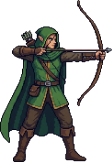
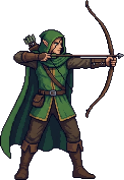
Bigger troll, cyclops, orc and archer; gargoyle lit up; fast enemy turns are back
- Re-cut from the originals at new heights: troll 80, cyclops 70, orc 56, archer 60 (x3 in files)
- cyclops_empty script scales with the picture height
- Gargoyle skips the night grade, is lightened and gets a soft pale outline so it reads on the road
- Enemies turn on road bends again, in 0.08 s (ENEMY_TURN_TIME in config.js)

Claude-Session: https://claude.ai/code/session_01QcHRMyAv8u5amDbjhevtz1

diff --git a/src/game.js b/src/game.js
@@ -7,7 +7,7 @@ const LIFT = 18; // высота полёта гаргулий
 // места на фоне (логические координаты): пламя факелов и ворота замка
 const TORCHES = [[20, 86], [390, 109], [438, 140]];
 const GATE = { x: 424, y: 97, w: 20, h: 20 };
-const TURN_TIME = 0.2; // плавный разворот: фигура сжимается по ширине и раскрывается уже в другую сторону
+const TURN_TIME = C.ENEMY_TURN_TIME; // быстрый разворот: фигура сжимается по ширине и раскрывается уже в другую сторону
 // обновляет показанную сторону o.shown и таймер разворота o.turnT по желаемой стороне want
 function turnTowards(o, want, dt) {
   if (o.shown === undefined) o.shown = want;
@@ -225,7 +225,7 @@ export class Game {
     e.d += e.def.speed * k * dt;
     e.anim += dt * k;
     const p = posAt(e.d);
-    if (p.dx && C.ENEMIES_TURN) e.dir = p.dx; // по умолчанию враг всегда лицом к замку
+    if (p.dx && C.ENEMIES_TURN) e.dir = p.dx; // разворот на поворотах (выключается в config.js)
     turnTowards(e, e.dir, dt);
     e.x = p.x; e.y = p.y;
     if (e.d >= PATH_LEN) {
@@ -687,6 +687,7 @@ export class Game {
     const sw = e.h * 0.55;
     ctx.fillStyle = 'rgba(0,0,0,0.28)';
     pxEllipse(ctx, e.x, e.y + 1, sw / 2, 2);
+    if (e.type === 'gargoyle') drawRigOutline(ctx, e.type, e.x, e.y + 2 - lift, o, rig.parts, '#b8d0ff', 0.32); // серый камень на серой дороге — светлый контур
     if (e.enraged) drawRigOutline(ctx, e.type, e.x, e.y + 2 - lift, o, rig.parts, '#ff3a2a', 0.55 + 0.3 * Math.sin(this.time * 9));
     const { w, h } = drawRig(ctx, e.type, e.x, e.y + 2 - lift, o, rig.parts);
     const top = e.y + 2 - lift - h + (o.dy || 0);

diff --git a/src/config.js b/src/config.js
@@ -76,8 +76,9 @@ export const ENEMIES = {
 };
 
 // Каждая волна: один тип врагов, идут колонной. gap — секунд между выходом врагов
-// враги всегда смотрят вправо, к замку, и не разворачиваются на петле дороги (true — разворачиваться по ходу движения)
-export const ENEMIES_TURN = false;
+// враги разворачиваются по ходу движения на поворотах дороги (false — всегда смотрят вправо, к замку)
+export const ENEMIES_TURN = true;
+export const ENEMY_TURN_TIME = 0.08; // за сколько секунд враг разворачивается (быстро, чтобы не мелькал боком)
 export const MIN_SPACING = 11; // враги в колонне держат дистанцию по дороге не меньше этой (не наползают друг на друга)
 export const WAVES = [
   { type: 'skeleton', count: 10, gap: 1.4 },

diff --git a/tools/cyclops_empty.py b/tools/cyclops_empty.py
@@ -7,13 +7,14 @@ from scipy import ndimage as nd
 A = __file__.rsplit('/tools/', 1)[0] + '/assets'
 im = np.asarray(Image.open(f'{A}/cyclops.png').convert('RGBA')).astype(np.float32)
 H, W = im.shape[:2]
+k = H / 180  # координаты ниже сняты с картинки высотой 180 px
 yy, xx = np.mgrid[0:H, 0:W]
 rgb = im[..., :3]; al = im[..., 3] > 128
 sat = rgb.max(-1) - rgb.min(-1)
 # валун — эллипс; внутри него камень всё, что не кожа (у кожи красный заметно больше синего)
-box = ((xx - 68.5) / 24.5) ** 2 + ((yy - 80) / 23.5) ** 2 <= 1
+box = ((xx - 68.5 * k) / (24.5 * k)) ** 2 + ((yy - 80 * k) / (23.5 * k)) ** 2 <= 1
 stone = al & box & (((rgb[..., 0] - rgb[..., 2]) < 32) | (rgb[..., 1] > 0.72 * rgb[..., 0]))
-ring = ((xx - 68.5) / 27) ** 2 + ((yy - 80) / 26) ** 2 <= 1
+ring = ((xx - 68.5 * k) / (27 * k)) ** 2 + ((yy - 80 * k) / (26 * k)) ** 2 <= 1
 stone |= al & ring & ~box & (rgb.sum(-1) < 240) & (xx > 0.6 * W)   # тёмный контур валуна
 # не трогаем кисти: насыщенная кожа рядом остаётся
 edge = 0.74 * W
@@ -25,7 +26,7 @@ shade = 1 - 0.35 * np.clip((xx - 0.5 * W) / (edge - 0.5 * W), 0, 1)
 out[inside, :3] = skin * shade[inside, None]
 out[inside, 3] = 255
 out[stone & (xx >= edge), 3] = 0
-out[(ring | ((yy > 60) & (yy < 104))) & (xx >= edge), 3] = 0   # всё справа от живота в пределах валуна (контур, обрывки дальней кисти) — пусто
+out[(ring | ((yy > 60 * k) & (yy < 104 * k))) & (xx >= edge), 3] = 0   # всё справа от живота в пределах валуна (контур, обрывки дальней кисти) — пусто
 # тёмный контур по краю живота
 rim = inside & (xx >= edge - 1.5)
 out[rim, :3] = np.array([60, 30, 18])

diff --git a/CLAUDE.md b/CLAUDE.md
@@ -56,8 +56,10 @@
 - Ворота замка закрыты (открытые владелец забраковал): враги бьются в створки, ворота вздрагивают, остаются трещины
   (`hitGate`, `drawGateHits` в `game.js`). У самых ворот враг быстро тает (`GATE_FADE`).
 - Анимации: у врагов при ходьбе качаются руки и оружие, у волка хвост и голова; при попадании враг вздрагивает;
-  враги всегда смотрят вправо, к замку, и не разворачиваются на петле дороги (просил владелец; `ENEMIES_TURN` в `config.js`,
-  при `true` — плавный разворот `turnTowards` со сжатием по ширине `o.sx`), защитники на башнях — мгновенно.
+  враги разворачиваются на поворотах дороги быстро (`ENEMY_TURN_TIME` 0.08 с в `config.js`, `turnTowards` со сжатием
+  по ширине `o.sx`; владелец просил быстрый разворот; `ENEMIES_TURN = false` — всегда лицом к замку), защитники на башнях — мгновенно.
+- Гаргулья подсвечена, чтобы не терялась на серой дороге: без ночной тонировки, высветлена (`LIGHTEN` в `sprites.js`)
+  и с мягким голубым контуром (`drawRigOutline` в `drawEnemy`).
 - Тетива лучника снята с картинки (`assets/archer.png`, её стирает `tools/cut_sprite.py`) и рисуется кодом (`drawBowstring`).
   Если придёт новая картинка лучника — поправить концы лука и точку у руки в `drawBowstring`.
 - У тролля и орка оружие идёт поперёк ног, поэтому шагают только ступни (`stride` от 0.86 / 0.83), качается свободная рука.
@@ -79,8 +81,10 @@
 Картинки делает владелец в Gemini/ChatGPT на сплошном фоне #FF00FF, по одной на запрос.
 Нарезка: `python3 tools/cut_sprite.py картинка.png <name> <высота×3>` — удаляет розовый фон и кайму, стирает тонкие линии,
 обрезает и сохраняет `assets/<name>.png` высотой «игровая высота × 3» (для `tower` ещё и подгоняет цвет под старую башню).
-Картинки, присланные в чат, лежат в журнале сессии (`~/.claude/projects/*/*.jsonl`, base64 webp) — их можно достать оттуда. Игровые высоты (до ZOOM): лучник 54, циклоп 60, лич 58, дракон 62,
-скелет 41, гоблин 37, волк 44, гаргулья 42, орк 48, тролль 72, башня 118.
+Картинки, присланные в чат, лежат в журнале сессии (`~/.claude/projects/*/*.jsonl`, base64 webp) — их можно достать оттуда. Игровые высоты (до ZOOM): лучник 60, циклоп 70, лич 58, дракон 62,
+скелет 41, гоблин 37, волк 44, гаргулья 42, орк 56, тролль 80, башня 118.
+Тролль и циклоп — заметно крупнее остальных (владелец: большие должны быть больше); новые картинки стройнее старых,
+поэтому орк и лучник тоже подняты. Оригиналы из чата перерезаются под новую высоту, а не растягиваются.
 Все картинки новые (последними пришли башня, циклоп, лучник, тролль, орк, гаргулья); старые — в git до этого коммита.
 Башня (`tower.png`) и фундаменты на фоне перекрашены под холодный серый камень замка (подгонка гистограммы
 по старой башне, которая была подогнана по башням замка) — `cut_sprite.py` делает это для `tower` сам.
